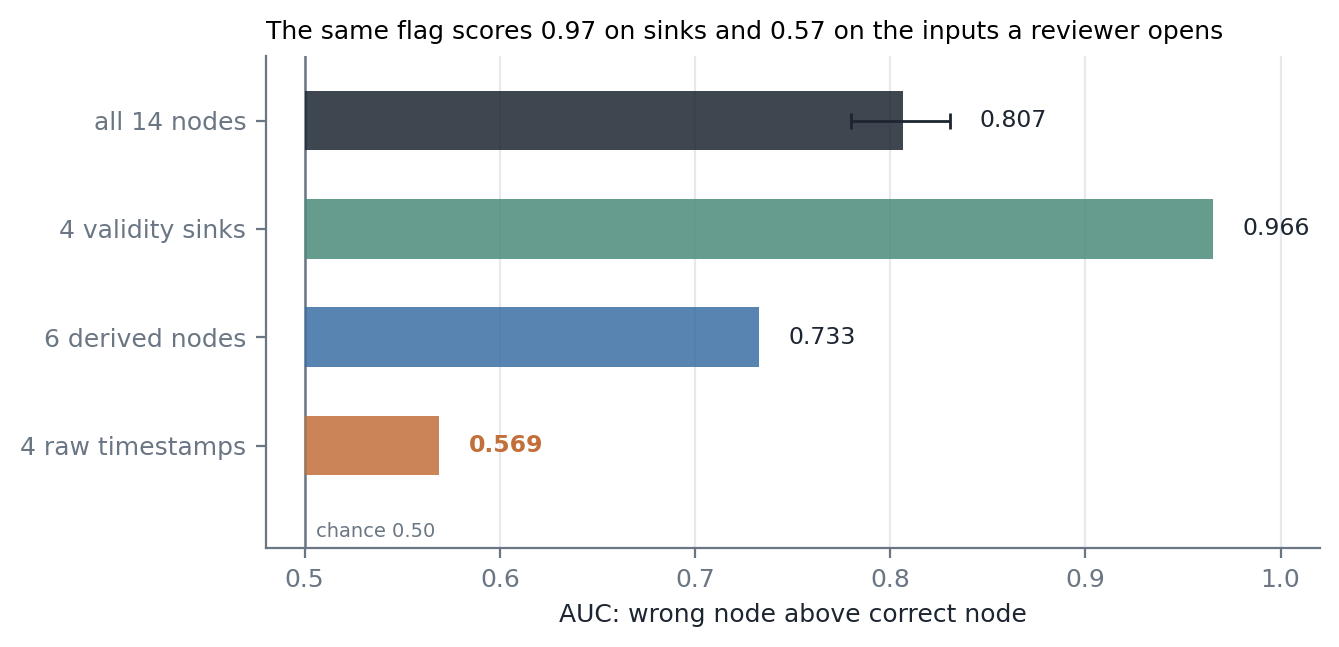
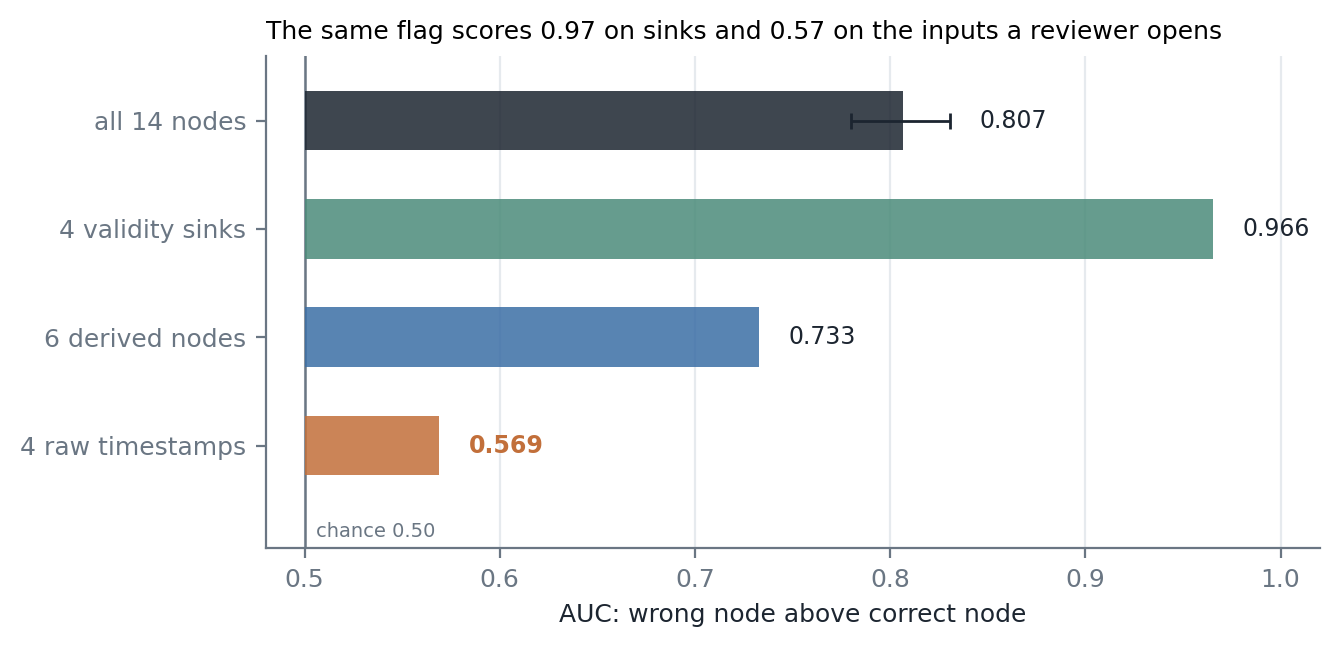
figures: schematic that places the three results on one pipeline
The paper had three result figures and no picture of the argument. The schematic
is the fifth layer of it: source errors → detector → queue → conclusion, with one
card per result, so the reader can see that "the learner loses", "the queue has a
ceiling" and "the flag ranks consequences" are three stages, not three views of
one stage.

Every number on the cards is read from the panels in Figs. 2–4 by
experiments/make_figures.py — a schematic that recomputes its own claims is the
only kind this repo should ship. FIGREF is the single source for card numbering
and figures/figure_data.json carries it, so test_figures.py now fails if a caption
and a card disagree about which panel to follow.

Figures renumbered: 1 schematic, 2 gap, 3 queue ceiling, 4 AUC. All three drafts
embed it at the end of §2; numeric parity holds at 630 tokens per draft.

diff --git a/experiments/make_figures.py b/experiments/make_figures.py
@@ -29,6 +29,9 @@ RANKING = os.path.join(ROOT, "runs", "real-confidence-ranking", "results.json")
 INK, MUTED = "#1c2530", "#6a7683"
 BLUE, ORANGE, TEAL = "#3b6ea5", "#c26f3a", "#4b8b7a"
 
+# Where each schematic card points; the paper captions use the same numbers.
+FIGREF = {"structure": 2, "delivery": 3, "signal": 4}
+
 
 def read(path):
     with open(path, encoding="utf-8") as handle:
@@ -260,6 +263,88 @@ def figure_localisation():
     return save(fig, "fig3_localisation_auc.png"), data
 
 
+# --------------------------------------------------------------------------- #
+# Figure 4 — one pipeline, three different questions
+# --------------------------------------------------------------------------- #
+
+def figure_schematic(payload):
+    """No data of its own: every number is pulled from the three result figures.
+
+    The point of the drawing is that the paper's three results are three stages of
+    one pipeline, so the schematic is only honest if it reads the same values.
+    """
+    sink_auc = next(b["auc"] for b in payload["fig3"]["bars"] if "sink" in b["label"])
+    raw_auc = next(b["auc"] for b in payload["fig3"]["bars"] if "raw" in b["label"])
+    coverage = payload["fig2"]["coverage_ceiling"]
+    ceiling = payload["fig2"]["saturation"]
+    plateau_k = payload["fig2"]["plateau_k"]
+    deltas = [p["delta"] for p in payload["fig1"]["points"]]
+
+    fig, ax = plt.subplots(figsize=(10.0, 4.9))
+    ax.set_xlim(0, 10.3)
+    ax.set_ylim(0, 5.25)
+    ax.axis("off")
+
+    boxes = [
+        (0.15, 1.75, "hidden source errors\n(never observed)"),
+        (2.15, 1.95, "pipeline computes\n14 claims per record"),
+        (4.35, 1.95, "published confidence\nflags a row"),
+        (6.55, 1.95, "review queue\nbudget k, order chosen"),
+        (8.75, 1.15, "final\nconclusion"),
+    ]
+    top, height = 3.50, 0.95
+    for x, w, label in boxes:
+        ax.add_patch(plt.Rectangle((x, top), w, height, facecolor="#f2f5f7",
+                                   edgecolor=MUTED, linewidth=0.9, zorder=2))
+        ax.text(x + w / 2, top + height / 2, label, ha="center", va="center",
+                fontsize=8, color=INK, zorder=3, linespacing=1.45)
+    for (x, w, _), (nx, _, _) in zip(boxes, boxes[1:]):
+        ax.annotate("", (nx - 0.02, top + height / 2), (x + w + 0.02, top + height / 2),
+                    arrowprops={"arrowstyle": "-|>", "color": MUTED, "linewidth": 1.0,
+                                "shrinkA": 0, "shrinkB": 0}, zorder=1)
+
+    cards = [
+        (4.55, BLUE, f"structure  ·  §4.1  ·  Fig. {FIGREF['structure']}",
+         f"learners lose to the rule;\n"
+         f"deficit grows with N:\n+{min(deltas):.2f} → +{max(deltas):.0f} errors",
+         "tested, and not the lever"),
+        (6.95, ORANGE, f"signal  ·  §7.8  ·  Fig. {FIGREF['signal']}",
+         f"{sink_auc:.3f} on sinks, {raw_auc:.3f}\n"
+         f"on the raw inputs —\nsame flag, no cause",
+         "synthetic; the real blocker"),
+        (9.15, TEAL, f"delivery  ·  §7.7  ·  Fig. {FIGREF['delivery']}",
+         f"coverage {coverage * 100:.1f} %; type\n"
+         f"order saturates at\n{ceiling * 100:.1f} % by k = {plateau_k}",
+         "a detector limit, not allocation"),
+    ]
+    card_top, card_h, card_w = 2.05, 1.55, 2.30
+    for cx, colour, title, body, verdict in cards:
+        left, x = cx - card_w / 2, cx
+        ax.add_patch(plt.Rectangle((left, card_top - card_h), card_w, card_h,
+                                   facecolor="white", edgecolor=colour, linewidth=1.0,
+                                   zorder=2))
+        ax.add_patch(plt.Rectangle((left, card_top - card_h), 0.055, card_h,
+                                   facecolor=colour, edgecolor="none", zorder=3))
+        ax.text(left + 0.16, card_top - 0.20, title, ha="left", va="center",
+                fontsize=7.7, color=colour, fontweight="bold", zorder=3)
+        ax.text(left + 0.16, card_top - 0.75, body, ha="left", va="center",
+                fontsize=6.9, color=INK, zorder=3, linespacing=1.55)
+        ax.text(left + 0.16, card_top - card_h + 0.15, verdict, ha="left", va="center",
+                fontsize=7.3, color=colour, zorder=3, style="italic")
+        ax.plot([x, x], [top, card_top], color=colour, linewidth=0.9,
+                linestyle=(0, (2, 2)), zorder=1)
+
+    ax.text(0.15, 5.02, "One pipeline, three different questions", ha="left", va="center",
+            fontsize=10.5, color=INK)
+    ax.text(0.15, 4.62, "The paper's three results are three stages, not three views of one stage.",
+            ha="left", va="center", fontsize=8.2, color=MUTED)
+    ax.text(0.15, 0.22, "Schematic. Every number is read from the panels in Figs. 2–4; "
+                        "the drawing adds no measurements.",
+            ha="left", va="center", fontsize=7.2, color=MUTED)
+        # Where each card points, so `test_figures.py` can check the paper's numbering.
+    return save(fig, "fig4_where_the_results_sit.png"), {"schematic": True, "refs": dict(FIGREF)}
+
+
 def main():
     os.makedirs(OUT, exist_ok=True)
     styled()
@@ -268,6 +353,9 @@ def main():
         name, data = fn()
         payload[key] = {"file": name, **data}
         print(f"wrote figures/{name}")
+    name, data = figure_schematic(payload)
+    payload["fig4"] = {"file": name, **data}
+    print(f"wrote figures/{name}")
     with open(os.path.join(OUT, "figure_data.json"), "w", encoding="utf-8") as handle:
         json.dump(payload, handle, indent=1, ensure_ascii=False)
         handle.write("\n")

diff --git a/experiments/test_figures.py b/experiments/test_figures.py
@@ -112,13 +112,30 @@ def test_every_figure_file_exists_and_is_not_empty():
         assert size > 20_000, f"{key} looks truncated ({size} bytes)"
 
 
-def test_the_paper_shows_all_three_figures():
+def test_the_paper_shows_every_figure():
     """A figure nobody embeds is dead weight; keep the drafts and the files in step."""
     files = [entry["file"] for entry in plotted().values()]
     for name in PAPERS:
         body = read(os.path.join(ROOT, name))
         for f in files:
             assert f"figures/{f}" in body, f"{name} does not embed figures/{f}"
+
+
+def test_the_schematic_points_at_the_figures_it_claims():
+    """Card numbering lives in two places, the image and the caption, so pin it.
+
+    `FIGREF` in `make_figures.py` is written into the picture; the drafts must use the
+    same numbers or a reader follows a card to the wrong panel.
+    """
+    data = plotted()["fig4"]
+    assert data["schematic"] is True
+    assert sorted(data["refs"]) == ["delivery", "signal", "structure"], data["refs"]
+    labels = {"PAPER_DRAFT.md": "Figure {}", "PAPER_DRAFT_KO.md": "그림 {}",
+              "PAPER_DRAFT_CN.md": "图 {}"}
+    for name, template in labels.items():
+        body = read(os.path.join(ROOT, name))
+        for key, number in data["refs"].items():
+            assert template.format(number) + "." in body, (name, key, number)
 
 
 def main():

diff --git a/PAPER_DRAFT.md b/PAPER_DRAFT.md
@@ -111,6 +111,11 @@ reviewed flags, remaining budget, and geometry. This restriction is what makes t
 comparison meaningful — a truth-reading policy is included as a *reference point*,
 not as a bound (§3.4).
 
+<img src="figures/fig4_where_the_results_sit.png" alt="Pipeline schematic: source errors, detector, queue, conclusion, with the paper's three results attached to three stages">
+
+*Figure 1. Where the three results sit. Schematic only: the cards restate Figs. 2–4,
+and nothing here is a new measurement.*
+
 ---
 
 ## 3. Benchmark
@@ -219,7 +224,7 @@ overlap, so the absolute ordering is the sharper statement and the one we make.
 
 <img src="figures/fig1_gap_vs_graph_size.png" alt="Learner minus marginal sink errors against graph size, absolute and relative">
 
-*Figure 1. The deficit tracks graph size, not the learner. Filled markers are the
+*Figure 2. The deficit tracks graph size, not the learner. Filled markers are the
 GNN aggregate, pale markers DQN; whiskers are paired intervals over 100 graphs. The
 right panel divides the same difference by the rule's own error level — larger at
 scale, but the ranges overlap across sizes, which is why §4.1 states the absolute
@@ -530,7 +535,7 @@ over 203 participants):
 
 <img src="figures/fig2_queue_ceiling.png" alt="Recall bound against rows reviewed, with detector coverage and type-partition ceilings">
 
-*Figure 2. Where the queue runs out of room. The dashed line is the detector's
+*Figure 3. Where the queue runs out of room. The dashed line is the detector's
 coverage — the corrections whose rows are never flagged and so cannot be ranked at
 any budget. Within the flagged population, taking whole flag types in order of base
 rate saturates because what is left is a large group at 1.2 %. Past the saturation
@@ -580,7 +585,7 @@ a cause cannot outrank its effect.
 
 <img src="figures/fig3_localisation_auc.png" alt="AUC by node group: all nodes, validity sinks, derived nodes, raw timestamps">
 
-*Figure 3. One flag rule, scored twice. Pooled AUC 0.807 is carried by the validity
+*Figure 4. One flag rule, scored twice. Pooled AUC 0.807 is carried by the validity
 sinks (0.966), whose values are wrong exactly when the check feeding them fires; on
 the four raw timestamps a reviewer would actually open, the same rule is at chance
 (0.569). The signal ranks consequences, and the reviewers' inputs are the causes.*
@@ -714,4 +719,4 @@ scheduler is where the error lives.
 | 7.6 | learned window scorer, AUC 0.991/0.816/0.840 | `runs/learned-window-scorer/` |
 | 7.7 | coverage / type ceiling / power | `triage_bench/CEILING.md`, `triage_bench/outputs/ceiling.json` |
 | 7.8 | localisation AUC 0.807 / 0.569, hit@1 0.003 | `experiments/REAL_CONFIDENCE_RANKING.md`, `runs/real-confidence-ranking/results.json` |
-| Figs. 1–3 | plotted values only, no new numbers | `experiments/make_figures.py`, `figures/figure_data.json` |
+| Figs. 1–4 | plotted values only, no new numbers | `experiments/make_figures.py`, `figures/figure_data.json` |
